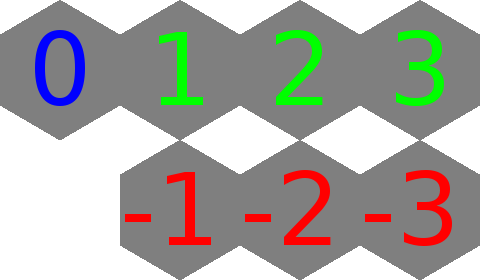
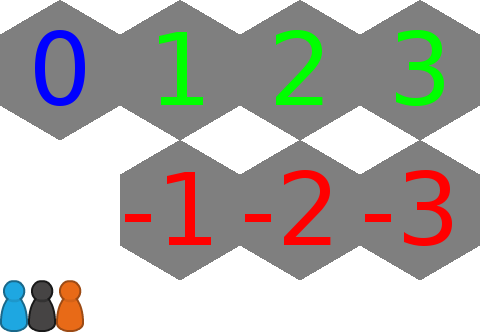
variable sized pieces

diff --git a/src/game.rs b/src/game.rs
@@ -1,10 +1,11 @@
 extern crate rand;
 extern crate sdl2;
 
-use self::rand::{Rng, SeedableRng, StdRng};
+use self::rand::{Rng, SeedableRng, StdRng, Rand};
 use platform::Platform;
 use platform::Event;
 use axial_hex;
+use consts;
 
 static mut RNG: Option<StdRng> = None;
 use std;
@@ -22,14 +23,16 @@ pub fn go() {
         rng = RNG.as_mut().unwrap();
     }
     //floor((short_diameter / 2) / cos(PI/6))
-    let side_length: u16 = 34;
+    let side_length: u16 = 69; //34;
 
     let mut grid = axial_hex::Grid::new(10);
     for _ in 0..48 {
         let u = rng.gen::<u16>() % 4;
         let v = rng.gen::<u16>() % 2;
+        let piece = rng.gen::<PieceState>();
 
-        grid.push((u, v));
+
+        grid.push(((u, v), piece));
     }
 
     let mut current_axial = (0, 0);
@@ -71,7 +74,7 @@ pub fn go() {
             };
         }
 
-        for ((x, y), &texture_coords) in grid.indices() {
+        for ((x, y), &(texture_coords, ref piece)) in grid.indices() {
             let pixel_coords = add(axial_hex::axial_to_pixel_pointy(side_length,
                                                                     (x as i16, y as i16)),
                                    grid_offset);
@@ -85,6 +88,11 @@ pub fn go() {
                                          } else {
                                              0xFFDDDDDD
                                          });
+
+
+            platform.draw_piece(pixel_coords, piece_uv(piece), side_length);
+
+
         }
 
         platform.flip_frame();
@@ -99,4 +107,36 @@ fn add<T: Add<Output = T>>((x1, y1): (T, T), (x2, y2): (T, T)) -> (T, T) {
 use std::ops::Sub;
 fn sub<T: Sub<Output = T>>((x1, y1): (T, T), (x2, y2): (T, T)) -> (T, T) {
     (x1 - x2, y1 - y2)
+}
+
+#[derive(Debug)]
+pub enum PieceState {
+    NoPiece,
+    Blue,
+    Black,
+    Orange,
+}
+use self::PieceState::*;
+
+impl Rand for PieceState {
+    fn rand<R: Rng>(rng: &mut R) -> Self {
+        match rng.gen::<usize>() % 4 {
+            1 => Blue,
+            2 => Black,
+            3 => Orange,
+            _ => NoPiece,
+        }
+    }
+}
+
+fn piece_uv(piece: &PieceState) -> (u16, u16) {
+    let offset = match *piece {
+        NoPiece => 0,
+        Blue => 1,
+        Black => 2,
+        Orange => 3,
+    };
+
+    (offset * consts::PIECE_DIMENSIONS.0, 280)
+
 }

diff --git a/src/platform.rs b/src/platform.rs
@@ -13,6 +13,7 @@ use sdl2::rect::Point;
 use sdl2::image::LoadTexture;
 
 use axial_hex;
+use consts;
 
 pub struct Platform<'a> {
     pub renderer: Renderer<'a>,
@@ -158,6 +159,24 @@ impl<'a> Platform<'a> {
         } else {
             self.spritesheet.set_color_mod(red!(colour), green!(colour), blue!(colour))
         }
+
+        self.renderer
+            .copy(&self.spritesheet, Some(source_rect), Some(dest_rect))
+            .unwrap();
+    }
+
+    pub fn draw_piece(&mut self, (x, y): (i16, i16), (u, v): (u16, u16), hex_side_length: u16) {
+        let (w, h) = consts::PIECE_DIMENSIONS;
+        let source_rect = rect!(u, v, w, h);
+        let mut dest_rect =
+            rect!(0,
+                  0,
+                  (axial_hex::short_diameter(hex_side_length) as f32 *
+                   (w as f32 / axial_hex::short_diameter(34) as f32)) as u16,
+                  (axial_hex::long_diameter(hex_side_length) as f32 *
+                   (h as f32 / axial_hex::long_diameter(34) as f32)) as u16);
+
+        dest_rect.center_on(Point::new(x as i32, (self.window_height - y) as i32));
 
         self.renderer
             .copy(&self.spritesheet, Some(source_rect), Some(dest_rect))

diff --git a/src/consts.rs b/src/consts.rs
@@ -41,3 +41,5 @@ lazy_static!{
          f32::sin(TAU_OVER_TWELEVE * 11f32),
          f32::sin(TAU_OVER_TWELEVE * 13f32)];
 }
+
+pub const PIECE_DIMENSIONS: (u16, u16) = (28, 52);
